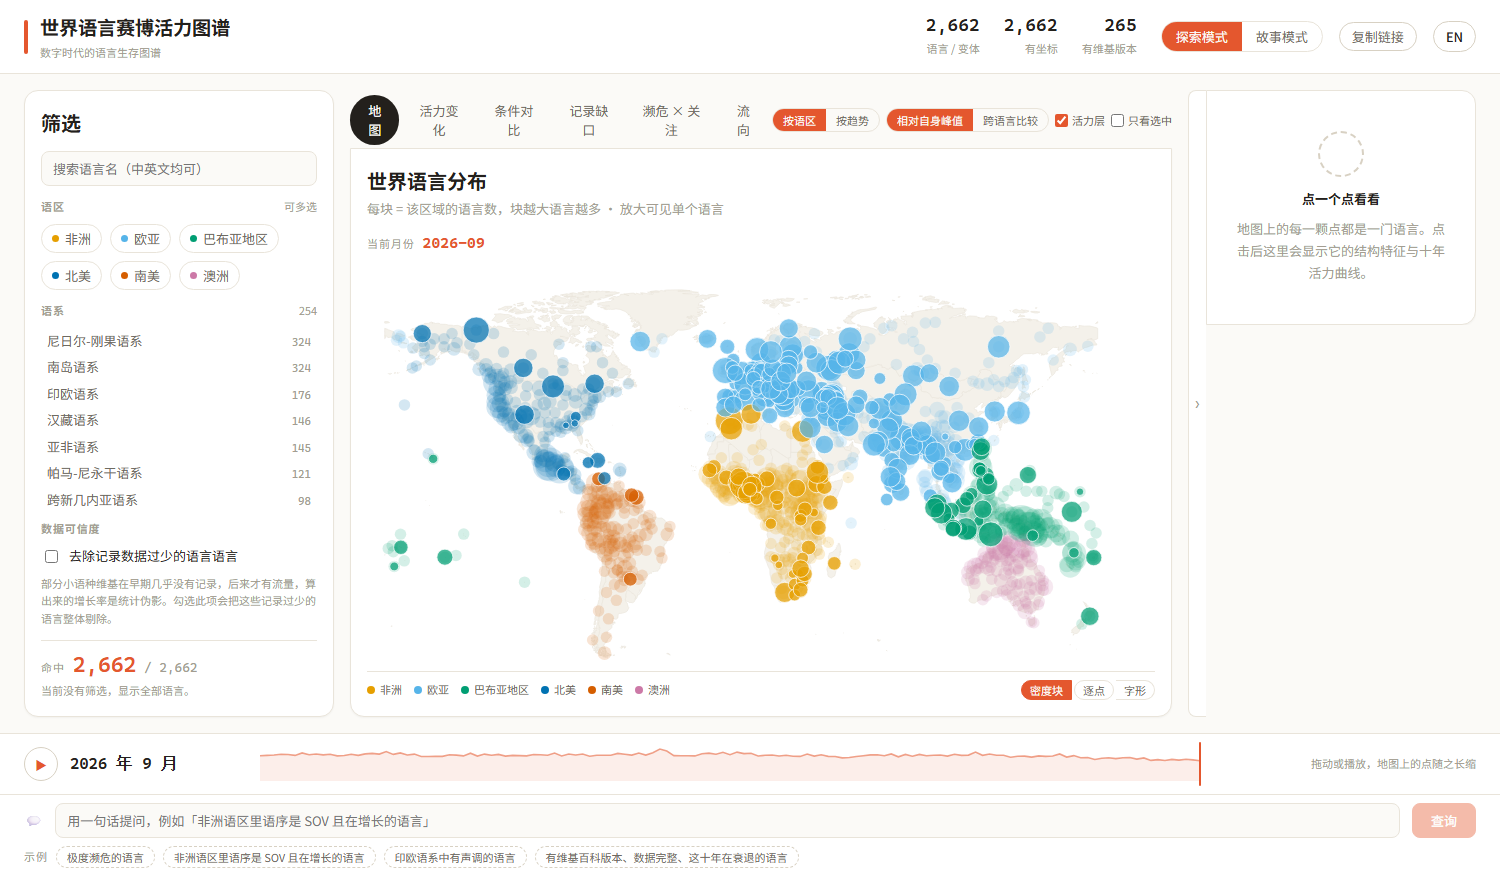
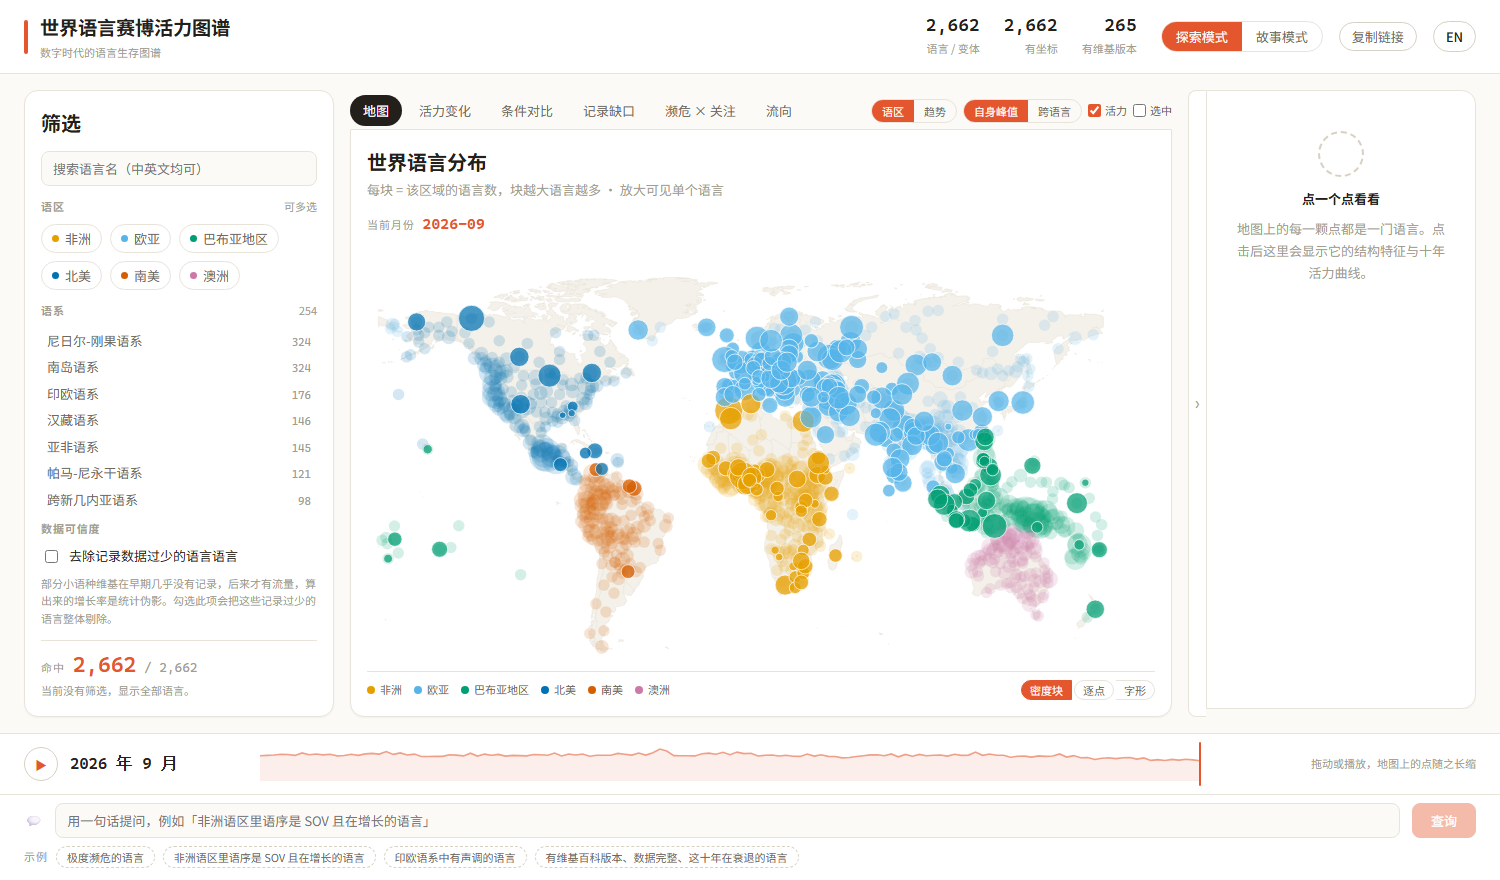
wip(ui): 右栏高度仍未解决 —— 记录已排除的假设，避免继续盲改
现象：空状态下右侧卡片只占上方约三分之一，下方大片空白；体检单在矮窗口下不可见。

已排除（都不起作用）：
  1. flex: 1 1 auto / 0 1 auto 调整
  2. 用 :first-child/:last-child → 空状态下二者同一元素、后者覆盖（已改显式类名）
  3. 包裹层 .rc-card 加 display:flex 让卡片拉满
  4. .right-stack 改 grid-template-rows: 1fr auto
  5. .col-right / .right-stack 显式 height:100%

结论：约束在更上层（网格行高度或兄弟元素），不是这几个节点内部的 flex/grid 写法。
下一步需要**实测**而不是猜：读 .col-right / .right-stack / .rc-card 的
getBoundingClientRect 与 computed style。已试过把量测结果写进 document.title，
但 --dump-dom 在 load 事件就抓取、早于定时器，拿不到。

顺带修好的：选项卡在 1500px 下被挤成两行（nowrap + 控件文案收短 + 窄屏横向滚动）。

diff --git a/web/src/App.vue b/web/src/App.vue
@@ -109,6 +109,8 @@ onMounted(async () => {
   // 分享链接就失效了。
   await nextTick()
   startUrlSync(store)
+
+
 })
 
 /** 复制当前画面的分享链接 */
@@ -216,8 +218,8 @@ async function copyLink() {
         <!-- 卡片常驻 DOM：折叠时靠位移+淡出，展开时滑回来，而不是显示/隐藏切换 -->
         <div class="card-wrap">
           <div class="right-stack">
-          <LanguageCard />
-          <HealthBars />
+          <div class="rc-card"><LanguageCard /></div>
+          <div class="rc-health"><HealthBars /></div>
         </div>
         </div>
       </div>
@@ -301,7 +303,7 @@ h1 { margin: 0; font-size: 1.2rem; font-weight: 600; letter-spacing: -0.01em; }
 /* 右栏里的「卡片 + 体检单」纵向排列。col-right 本身是横向 flex（把手 + 内容），
    所以内容必须再包一层纵向容器，否则体检单会被当成第二个"列"压成零宽 */
 .right-stack {
-  flex: 1; min-width: 0; min-height: 0;
+  flex: 1; min-width: 0; min-height: 0; height: 100%;
   display: flex; flex-direction: column; gap: var(--sp-2);
   overflow-y: auto;
 }
@@ -310,6 +312,9 @@ h1 { margin: 0; font-size: 1.2rem; font-weight: 600; letter-spacing: -0.01em; }
 /* 右栏：一个窄把手 + 卡片。折叠时列宽收到把手宽度 */
 .col-right {
   display: flex; align-items: stretch; gap: 0;
+  /* 关键怀疑点：若本列是「内容高度」，里面所有元素都只能是短的，
+     这能解释为什么改内部 flex 全部无效。这里显式撑满网格行。 */
+  height: 100%;
   min-width: 0; min-height: 0;
   /* 折叠过程中卡片会被压窄，裁掉溢出避免它"漏"到地图上 */
   overflow: hidden;
@@ -400,24 +405,30 @@ h1 { margin: 0; font-size: 1.2rem; font-weight: 600; letter-spacing: -0.01em; }
 .col-center .tabs { margin-bottom: -1px; position: relative; z-index: 2; }
 .col-center .stage > .card { border-top-left-radius: 0; border-top-right-radius: 0; }
 
-/* 右栏第一张卡片与把手拼接：左侧圆角归零，看起来是同一个容器 */
-.right-stack > :first-child {
+/* 右栏布局：用 grid 的 1fr auto。
+   之前试过 flex + :first-child/:last-child、flex 显式类名，都没能让卡片填满 ——
+   grid 的 1fr 行是确定的：卡片吃掉剩余高度，体检单取自身高度。 */
+.right-stack {
+  flex: 1; min-width: 0; min-height: 0;
+  display: grid;
+  grid-template-rows: 1fr auto;
+  gap: var(--sp-2);
+  overflow: hidden;
+}
+.rc-card {
+  min-height: 0;
+  overflow-y: auto;
   border-top-left-radius: 0;
   border-bottom-left-radius: 0;
 }
-/* 右栏高度分配：
-   卡片占满剩余空间（grow=1，否则只按内容撑开、只剩一半高），
-   体检单保留自己的高度但允许被压缩，压缩后自己滚动（否则超出就被裁掉）。
-   两者都 min-height:0，否则 flex 子项不会真正收缩。 */
-.right-stack > :first-child {
-  flex: 1 1 auto;
-  min-height: 0;
-  overflow-y: auto;
+.rc-card > :first-child {
+  height: 100%;
+  border-top-left-radius: 0;
+  border-bottom-left-radius: 0;
 }
-.right-stack > :last-child {
-  flex: 0 1 auto;
+.rc-health {
   min-height: 0;
-  max-height: 46%;
+  max-height: 46vh;
   overflow-y: auto;
 }
 </style>

diff --git a/_tools/_measure.html b/_tools/_measure.html
@@ -1,0 +1,15 @@
+<!DOCTYPE html>
+<html lang="zh-CN"><head>
+  <script type="module" src="/@vite/client"></script>
+
+<meta charset="utf-8">
+<meta name="viewport" content="width=device-width, initial-scale=1">
+<title>正在消失的声音 · 数字时代的语言生存图谱</title>
+<link rel="stylesheet" href="/src/theme/tokens.css">
+</head>
+<body>
+  <div id="app"></div>
+  <script type="module" src="/src/main.ts?t=1793550645111"></script>
+
+
+<vite-error-overlay></vite-error-overlay></body></html>

diff --git a/_tools/patch_rightstack_class.py b/_tools/patch_rightstack_class.py
@@ -1,0 +1,66 @@
+"""用明确的包裹类替代 :first-child / :last-child。
+
+病根：空状态下右栏只有一个子元素，它同时命中 :first-child 与 :last-child。
+两条规则优先级相同、:last-child 在后 → max-height:46% 生效 → 卡片正好只剩一半。
+这就是用户反复说"还是一样"的原因：我前两次都在改 flex 值，而覆盖来自选择器。
+
+改成包裹 div + 类名，两者互不干扰。
+"""
+
+import io
+import sys
+
+sys.stdout.reconfigure(encoding="utf-8", errors="replace")
+
+A = "web/src/App.vue"
+s = io.open(A, encoding="utf-8").read()
+
+# 1) 模板：加包裹类
+OLD_T = """        <div class="right-stack">
+          <LanguageCard />
+          <HealthBars />
+        </div>"""
+NEW_T = """        <div class="right-stack">
+          <div class="rc-card"><LanguageCard /></div>
+          <div class="rc-health"><HealthBars /></div>
+        </div>"""
+if OLD_T in s:
+    s = s.replace(OLD_T, NEW_T, 1)
+    print("  ok   模板已加包裹类")
+else:
+    print("  MISS 模板")
+
+# 2) 样式：整段替换掉位置选择器版本
+START = "/* 右栏第一张卡片与把手拼接"
+END = ".right-stack > :last-child {\n  flex: 0 1 auto;\n  min-height: 0;\n  max-height: 46%;\n  overflow-y: auto;\n}"
+i = s.find(START)
+j = s.find(END)
+if i >= 0 and j >= 0:
+    NEW_CSS = """/* 右栏布局。
+   踩过的坑：原来用 :first-child / :last-child，结果空状态下只有一个子元素，
+   它同时命中两条规则、后者覆盖前者（max-height:46%），卡片正好只剩一半。
+   改成显式类名，互不干扰。 */
+.rc-card {
+  flex: 1 1 auto;          /* 占满可用高度 */
+  min-height: 0;           /* flex 子项不加这条不会真正收缩 */
+  overflow-y: auto;
+  /* 与左侧把手拼接 */
+  border-top-left-radius: 0;
+  border-bottom-left-radius: 0;
+}
+.rc-health {
+  flex: 0 1 auto;
+  min-height: 0;
+  max-height: 46%;
+  overflow-y: auto;
+}
+.rc-card > :first-child {
+  border-top-left-radius: 0;
+  border-bottom-left-radius: 0;
+}"""
+    s = s[:i] + NEW_CSS + s[j + len(END):]
+    io.open(A, "w", encoding="utf-8").write(s)
+    print("  ok   样式已改为显式类名")
+else:
+    print(f"  MISS 样式区间 i={i} j={j}")
+    io.open(A, "w", encoding="utf-8").write(s)
